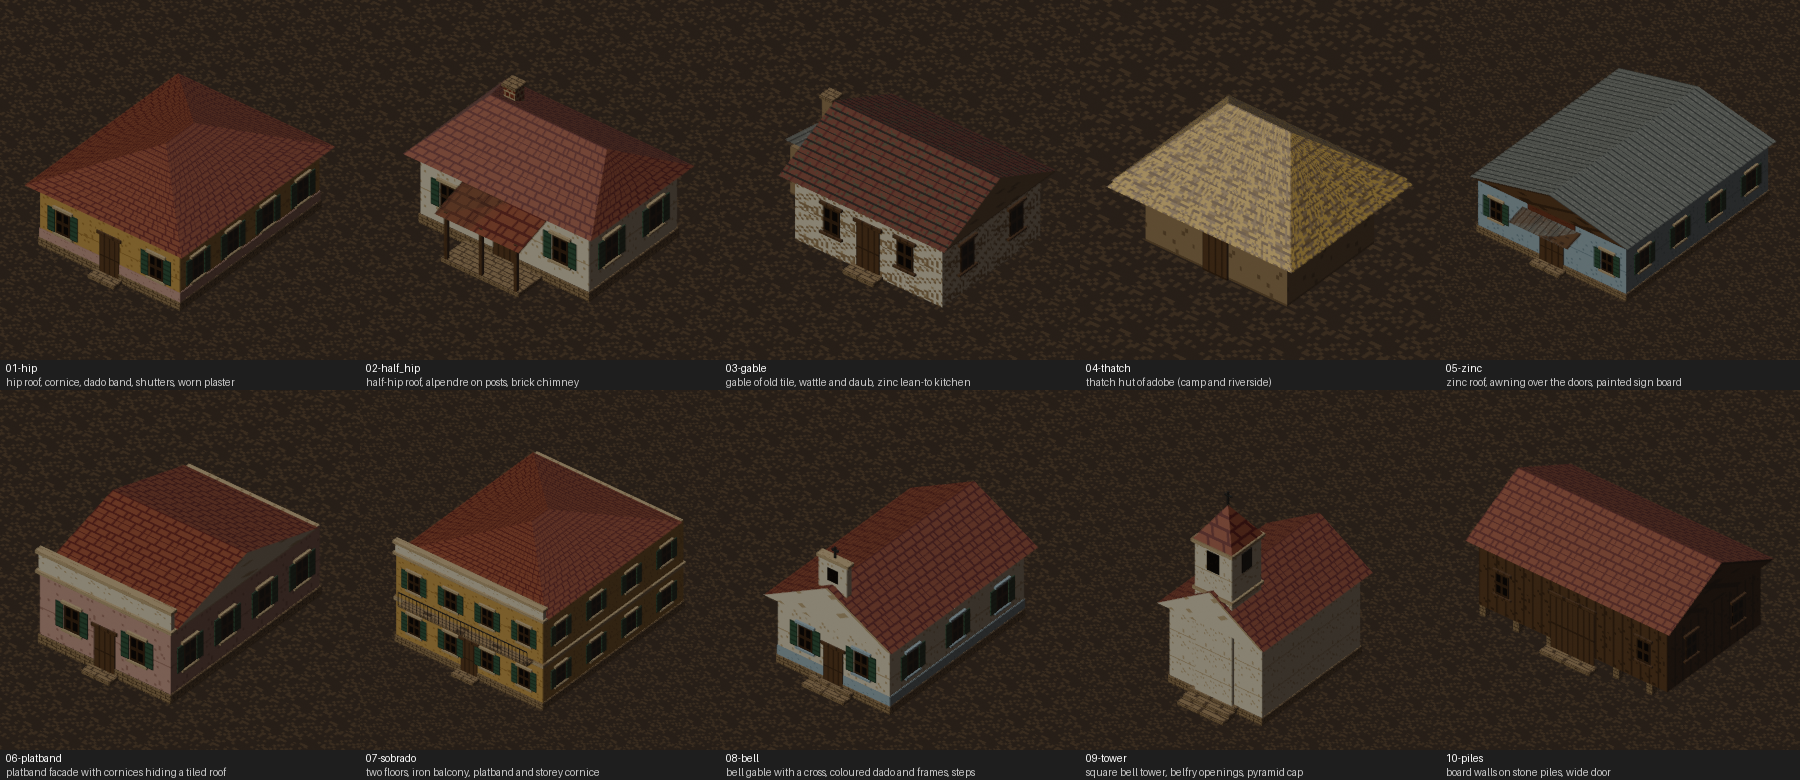
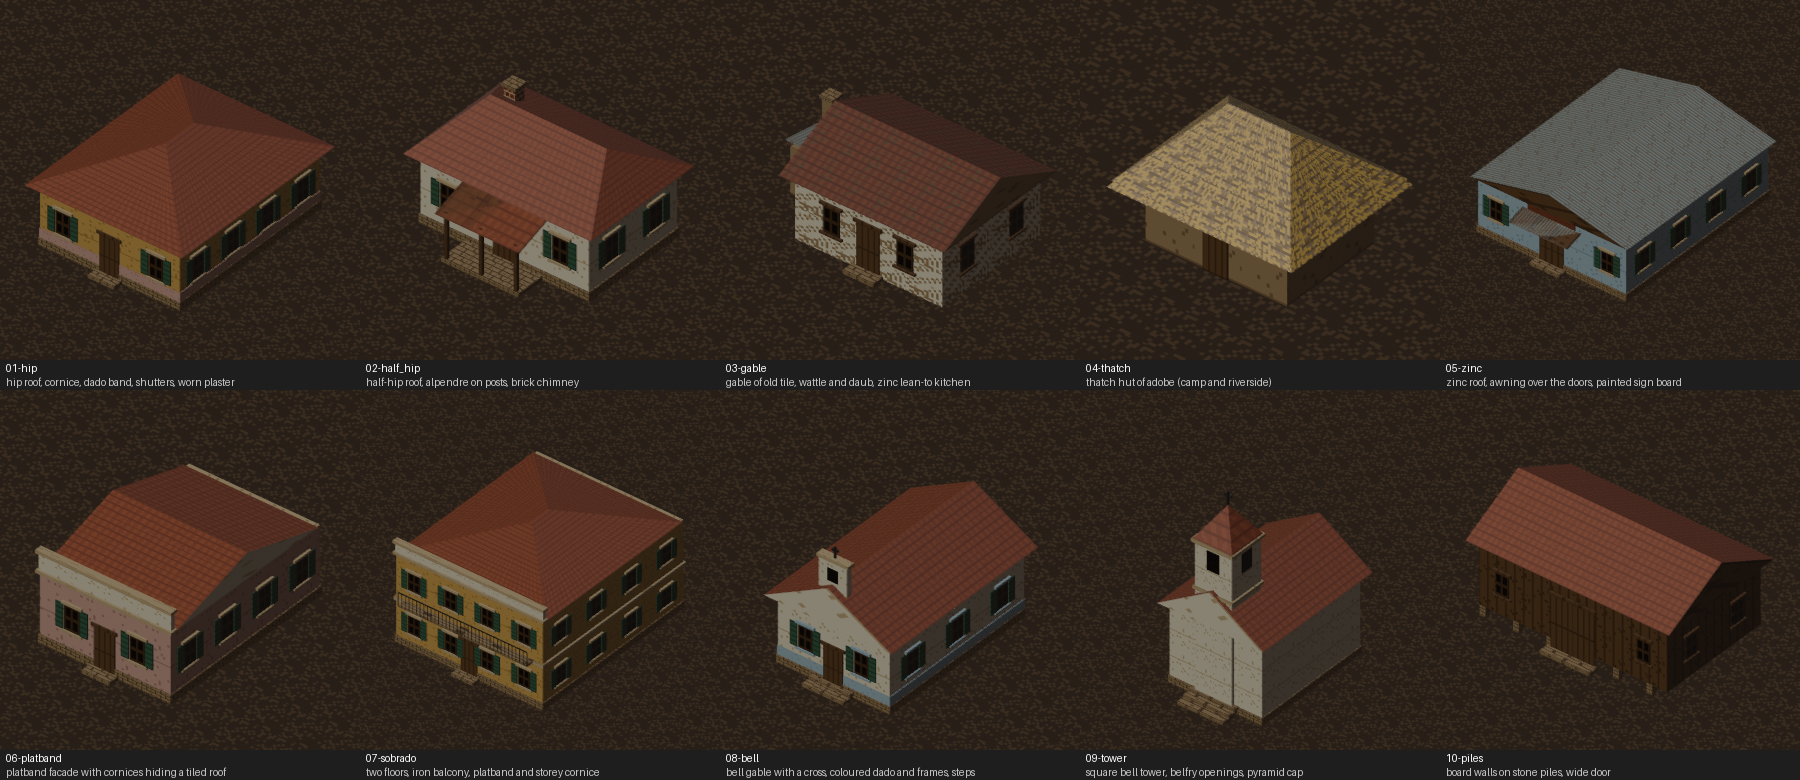
fix(structures): finer tile, old tile and zinc swatches, no thick dark lines (revise-buildings-and-stone 3.1)

diff --git a/art-src/textures/make_textures.py b/art-src/textures/make_textures.py
@@ -309,9 +309,12 @@ def environment_atlas() -> Atlas:
         return paint
 
     def tile(i, j, rng):
-        if j % 4 == 0:
-            return RED_DARK
-        return (154, 82, 56) if ((i + (j // 4) * 2) % 6) else RED_DARK
+        # Clay canal tiles: soft course shadows, capa and canal stripes.
+        if j % 4 == 3:
+            return (136, 72, 50)
+        if i % 4 in (0, 1):
+            return (166, 92, 62) if rng.random() > 0.08 else (154, 82, 56)
+        return (154, 82, 56) if rng.random() > 0.08 else (146, 78, 54)
 
     def timber(i, j, rng):
         if i % 5 == 0:
@@ -388,9 +391,10 @@ def environment_atlas() -> Atlas:
         return GOLD if rng.random() > 0.45 else SAND if rng.random() > 0.3 else (150, 120, 70)
 
     def zinc(i, j, rng):
-        if i % 4 == 0:
-            return METAL
-        return METAL_LIGHT if rng.random() > 0.12 else (150, 150, 140)
+        # Corrugated sheet: a light and a shaded rib in turn, a few rust specks.
+        if rng.random() < 0.05:
+            return (150, 120, 96)
+        return METAL_LIGHT if i % 2 == 0 else (164, 166, 158)
 
     def brick(i, j, rng):
         row = j // 4
@@ -410,11 +414,14 @@ def environment_atlas() -> Atlas:
         return (66, 104, 76) if j % 3 else (52, 84, 60)
 
     def tile_old(i, j, rng):
-        if j % 4 == 0:
-            return DARK
-        if rng.random() < 0.18:
-            return (96, 88, 60)
-        return (128, 70, 50) if ((i + (j // 4) * 2) % 6) else RED_DARK
+        # Weathered tiles: the same courses, browner, with moss and soot.
+        if j % 4 == 3:
+            return (108, 62, 46)
+        if rng.random() < 0.12:
+            return (104, 92, 62)
+        if i % 4 in (0, 1):
+            return (138, 80, 56)
+        return (124, 70, 50)
 
     swatches = [
         ("plaster", plaster(PAPER, LIGHT)),
